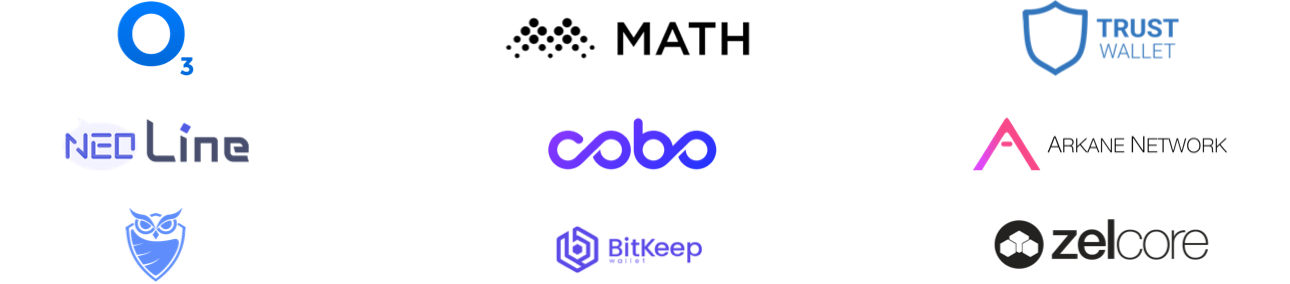
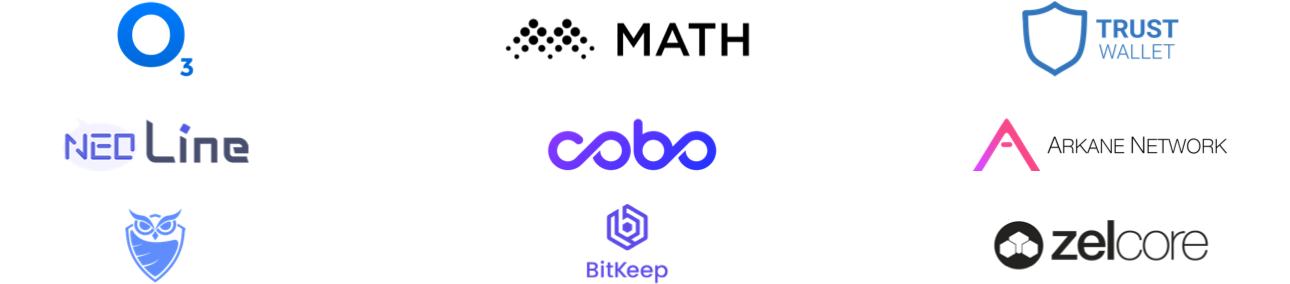
ecoboost修改logo位置

diff --git a/NeoWeb/wwwroot/css/eco.min.css b/NeoWeb/wwwroot/css/eco.min.css
@@ -1,1 +1,1 @@
-body{padding-top:0;line-height:1.7;font-weight:300;background:#f0f0f0;letter-spacing:1px;text-align:center;color:#4f4f4f}.layout-container{max-width:none;padding:0;margin:0}.layout-container .container{padding:100px 0}h2,.h2{font-size:48px}.eco-bannner{background:url(https://neo-cdn.azureedge.net/images/eco-banner.jpg) center;background-size:cover;color:#fff;padding-top:40px}.eco-bannner>div.container{padding-top:80px}.eco-title{line-height:1.6;letter-spacing:2px}.eco-t1{font-size:22px;cursor:pointer}.eco-t2{font-size:14px}.eco-btn{display:inline-block;background:#eff1ef;border:1px solid #eff1ef;min-width:130px;color:#4f4f4f !important;padding:5px 30px;vertical-align:middle;cursor:pointer;transition:background .3s,color .3s;margin-bottom:30px}.eco-btn:hover{background:transparent;border:1px solid #fff;color:#fff !important;transition:background .3s,color .3s}.eco-intro{width:100%;padding:0;margin-bottom:0}.eco-intro li{display:inline-block;vertical-align:top;list-style:none;width:32%;margin-top:20px}.eco-intro .t1{font-size:28px}.eco-detail{max-width:310px;margin:auto}.eco-intro li .iconfont{display:inline-block;background:url(https://neo-cdn.azureedge.net/images/icon-bg.svg) center;background-size:contain;width:108px;height:128px;line-height:128px;vertical-align:middle;font-size:45px;color:#478e0a}.eco-link{color:#478e0a!important;font-size:20px;font-weight:600;cursor:pointer}.eco-link:hover{text-decoration:underline!important}.eco-tag{padding:0;margin-bottom:0}.eco-tag li{display:inline-block;padding:5px 30px;cursor:pointer}.eco-tag li.selected{color:#478e0a;border-bottom:2px solid #478e0a}.eco-logo{padding:50px 0}.eco-logo li{display:inline-block;margin:10px 4%;width:30%;max-width:280px;line-height:1;vertical-align:top}.eco-logo li span{display:inline-block;background-size:820px;background-repeat:no-repeat;background-origin:border-box;background-clip:border-box;min-height:60px;width:280px;filter:grayscale(1);opacity:.8;transition:all .2s}.eco-logo li span:hover{opacity:1;filter:grayscale(0);transition:all .3s}.eco-logo .Liquidity span{background-image:url(../images/eco/Liquidity.png)}.eco-logo .Liquidity .bibox{background-position:46px 13px}.eco-logo .Liquidity .kucoin{background-position:-256px 15px}.eco-logo .Liquidity .digi{background-position:-551px 14px}.eco-logo .Liquidity .bitmax{background-position:42px -54px}.eco-logo .Liquidity .bitmart{background-position:-257px -53px}.eco-logo .Liquidity .indo{background-position:-553px -51px}.eco-logo .Liquidity .nash{background-position:40px -118px}.eco-logo .Liquidity .switch{background-position:-254px -120px}.eco-logo .Liquidity .coin{background-position:-555px -114px}.eco-logo .Liquidity .dex{background-position:42px -189px}.eco-logo .Wallets span{background-image:url(../images/eco/Wallets.png)}.eco-logo .Wallets .o3{background-position:44px 8px}.eco-logo .Wallets .math{background-position:-261px 9px}.eco-logo .Wallets .trust{background-position:-561px 7px}.eco-logo .Wallets .line{background-position:40px -60px}.eco-logo .Wallets .cobo{background-position:-260px -62px}.eco-logo .Wallets .arkane{background-position:-561px -59px}.eco-logo .Wallets .teemo{background-position:42px -125px}.eco-logo .Wallets .bitkeep{background-position:-260px -126px}.eco-logo .Wallets .zelcore{background-position:-560px -122px}.eco-logo .Media span{background-image:url(../images/eco/Media.png)}.eco-logo .Media .bcgamer{background-position:19px 7px}.eco-logo .Media .nnt{background-position:-283px 7px}.eco-logo .Media .xingqiu{background-position:-581px 8px}.eco-logo .Media .bi{background-position:17px -62px}.eco-logo .Media .chain{background-position:-271px -61px}.eco-logo .Media .bitkan{background-position:-581px -61px}.eco-logo .Media .ba{background-position:16px -127px}.eco-logo .Media .egamer{background-position:-274px -128px}.eco-logo .Media .lian{background-position:-579px -125px}.eco-logo .Media .panews{background-position:18px -193px}.eco-logo .Media .huo{background-position:-274px -196px}.eco-logo .Media .dgaming{background-position:-582px -196px}.eco-logo .Channels span{background-image:url(../images/eco/Channels.png)}.eco-logo .Channels .review{background-position:33px 13px}.eco-logo .Channels .bee{background-position:-258px 15px}.eco-logo .Channels .state{background-position:-564px 10px}.eco-logo .Channels .dapp{background-position:33px -55px}.eco-logo .Channels .total{background-position:-266px -58px}.eco-logo .Channels .birds{background-position:-567px -59px}.eco-logo .Community span{background-image:url(../images/eco/Community.png)}.eco-logo .Community .nel{background-position:1px 9px}.eco-logo .Community .nex{background-position:-284px 9px}.eco-logo .Community .nspcc{background-position:-590px 6px}.eco-logo .Community .neore{background-position:6px -61px}.eco-logo .Community .neo3j{background-position:-280px -63px}.eco-logo .Community .neone{background-position:-589px -65px}.eco-logo .Community .nns{background-position:14px -126px}.eco-logo .Community .thebl{background-position:-272px -127px}.eco-logo .Community .conte{background-position:-582px -126px}.eco-logo .Community .chang{background-position:11px -195px}.eco-logo .Community .trini{background-position:-277px -197px}.eco-logo .Community .higgs{background-position:-582px -199px}.eco-logo .Community .trava{background-position:19px -267px}.eco-logo .Community .oncha{background-position:-275px -262px}.eco-logo .Community .archo{background-position:-582px -264px}.eco-logo .Community .alche{background-position:17px -331px}.eco-logo .Community .world{background-position:-280px -329px}.eco-logo .Community .lique{background-position:-584px -330px}.eco-logo .Community .coinp{background-position:17px -401px}.eco-logo .Community .bridg{background-position:-279px -400px}.eco-logo .Community .mixma{background-position:-579px -401px}.eco-logo .Community .coz{background-position:21px -461px}.eco-logo .Security span{background-image:url(../images/eco/Security.png)}.eco-logo .Security .red4{background-position:25px 6px}.eco-logo .Security .cert{background-position:-268px 9px}.eco-logo .Security .slow{background-position:-575px 6px}.eco-logo .Security .beosin{background-position:20px -62px}.eco-logo .Security .secbit{background-position:-269px -66px}.eco-modal .modal-title{width:100%;max-width:700px;overflow:hidden;white-space:nowrap;text-overflow:ellipsis;text-align:left}.eco-click{color:#478e0a;padding:0 5px;font-weight:500;border-bottom:2px solid #478e0a}.modal-content{padding:1em 1.5em}.modal-header{padding:1em 0 1.5em 0}.eco-modal .modal-body{padding:1.5em 0 2em 0;line-height:2.1}.eco-modal .modal-body p{margin:5px 0 10px}.eco-modal .modal-body span{font-weight:600}@media only screen and (max-width:1199px){h2,.h2{font-size:40px}.eco-tag li{padding:5px 20px}.eco-logo{padding:30px 0}.eco-logo li{margin:10px 0;width:32%}.eco-logo li span{zoom:.8}}@media only screen and (max-width:768px){h2,.h2{font-size:34px}.layout-container .container{padding:60px 0}.eco-t1{font-size:22px}.eco-t2{font-size:12px}.eco-intro li{width:100%}.eco-link{font-size:16px}.eco-tag li{padding:5px 10px}.eco-logo{padding:15px 0}.eco-logo li{margin:8px 10px;width:40%}}#EcoReg .modal-content,#EcoReg .modal-header,#EcoReg .modal-body{padding:0}#ecoForm{margin-top:-90px !important;margin-bottom:-135px !important}
+body{padding-top:0;line-height:1.7;font-weight:300;background:#f0f0f0;letter-spacing:1px;text-align:center;color:#4f4f4f}.layout-container{max-width:none;padding:0;margin:0}.layout-container .container{padding:100px 0}h2,.h2{font-size:48px}.eco-bannner{background:url(https://neo-cdn.azureedge.net/images/eco-banner.jpg) center;background-size:cover;color:#fff;padding-top:40px}.eco-bannner>div.container{padding-top:80px}.eco-title{line-height:1.6;letter-spacing:2px}.eco-t1{font-size:22px;cursor:pointer}.eco-t2{font-size:14px}.eco-btn{display:inline-block;background:#eff1ef;border:1px solid #eff1ef;min-width:130px;color:#4f4f4f !important;padding:5px 30px;vertical-align:middle;cursor:pointer;transition:background .3s,color .3s;margin-bottom:30px}.eco-btn:hover{background:transparent;border:1px solid #fff;color:#fff !important;transition:background .3s,color .3s}.eco-intro{width:100%;padding:0;margin-bottom:0}.eco-intro li{display:inline-block;vertical-align:top;list-style:none;width:32%;margin-top:20px}.eco-intro .t1{font-size:28px}.eco-detail{max-width:310px;margin:auto}.eco-intro li .iconfont{display:inline-block;background:url(https://neo-cdn.azureedge.net/images/icon-bg.svg) center;background-size:contain;width:108px;height:128px;line-height:128px;vertical-align:middle;font-size:45px;color:#478e0a}.eco-link{color:#478e0a!important;font-size:20px;font-weight:600;cursor:pointer}.eco-link:hover{text-decoration:underline!important}.eco-tag{padding:0;margin-bottom:0}.eco-tag li{display:inline-block;padding:5px 30px;cursor:pointer}.eco-tag li.selected{color:#478e0a;border-bottom:2px solid #478e0a}.eco-logo{padding:50px 0}.eco-logo li{display:inline-block;margin:10px 4%;width:30%;max-width:280px;line-height:1;vertical-align:top}.eco-logo li span{display:inline-block;background-size:820px;background-repeat:no-repeat;background-origin:border-box;background-clip:border-box;min-height:60px;width:280px;filter:grayscale(1);opacity:.8;transition:all .2s}.eco-logo li span:hover{opacity:1;filter:grayscale(0);transition:all .3s}.eco-logo .Liquidity span{background-image:url(https://neo-cdn.azureedge.net/images/eco/Liquidity.png)}.eco-logo .Wallets span{background-image:url(https://neo-cdn.azureedge.net/images/eco/Wallets.png)}.eco-logo .Media span{background-image:url(https://neo-cdn.azureedge.net/images/eco/Media.png)}.eco-logo .Channels span{background-image:url(https://neo-cdn.azureedge.net/images/eco/Channels.png)}.eco-logo .Community span{background-image:url(https://neo-cdn.azureedge.net/images/eco/Community.png)}.eco-logo .Security span{background-image:url(https://neo-cdn.azureedge.net/images/eco/Security.png)}.eco-logo .Liquidity .bibox{background-position:42px 11px}.eco-logo .Liquidity .kucoin{background-position:-256px 15px}.eco-logo .Liquidity .digi{background-position:-551px 14px}.eco-logo .Liquidity .bitmax{background-position:42px -54px}.eco-logo .Liquidity .bitmart{background-position:-257px -53px}.eco-logo .Liquidity .indo{background-position:-553px -51px}.eco-logo .Liquidity .nash{background-position:40px -118px}.eco-logo .Liquidity .switch{background-position:-254px -120px}.eco-logo .Liquidity .coin{background-position:-555px -114px}.eco-logo .Liquidity .dex{background-position:44px -189px}.eco-logo .Wallets .o3{background-position:44px 8px}.eco-logo .Wallets .math{background-position:-261px 9px}.eco-logo .Wallets .trust{background-position:-561px 7px}.eco-logo .Wallets .line{background-position:40px -60px}.eco-logo .Wallets .cobo{background-position:-260px -62px}.eco-logo .Wallets .arkane{background-position:-561px -59px}.eco-logo .Wallets .teemo{background-position:42px -125px}.eco-logo .Wallets .bitkeep{background-position:-260px -125px}.eco-logo .Wallets .zelcore{background-position:-560px -122px}.eco-logo .Media .bcgamer{background-position:19px 7px}.eco-logo .Media .nnt{background-position:-283px 7px}.eco-logo .Media .xingqiu{background-position:-581px 8px}.eco-logo .Media .bi{background-position:17px -62px}.eco-logo .Media .chain{background-position:-271px -61px}.eco-logo .Media .bitkan{background-position:-581px -61px}.eco-logo .Media .ba{background-position:16px -127px}.eco-logo .Media .egamer{background-position:-274px -128px}.eco-logo .Media .lian{background-position:-579px -125px}.eco-logo .Media .panews{background-position:18px -193px}.eco-logo .Media .huo{background-position:-274px -196px}.eco-logo .Media .dgaming{background-position:-582px -196px}.eco-logo .Media .tuoluo{background-position:13px -255px}.eco-logo .Channels .review{background-position:33px 13px}.eco-logo .Channels .bee{background-position:-258px 15px}.eco-logo .Channels .state{background-position:-564px 10px}.eco-logo .Channels .dapp{background-position:33px -55px}.eco-logo .Channels .total{background-position:-266px -58px}.eco-logo .Channels .birds{background-position:-567px -59px}.eco-logo .Community .nel{background-position:1px 9px}.eco-logo .Community .nex{background-position:-284px 9px}.eco-logo .Community .nspcc{background-position:-590px 6px}.eco-logo .Community .neore{background-position:6px -61px}.eco-logo .Community .neo3j{background-position:-280px -63px}.eco-logo .Community .neone{background-position:-589px -65px}.eco-logo .Community .nns{background-position:14px -126px}.eco-logo .Community .thebl{background-position:-272px -127px}.eco-logo .Community .conte{background-position:-582px -126px}.eco-logo .Community .chang{background-position:11px -195px}.eco-logo .Community .trini{background-position:-277px -197px}.eco-logo .Community .higgs{background-position:-582px -199px}.eco-logo .Community .trava{background-position:19px -267px}.eco-logo .Community .oncha{background-position:-275px -262px}.eco-logo .Community .archo{background-position:-582px -264px}.eco-logo .Community .alche{background-position:17px -331px}.eco-logo .Community .world{background-position:-280px -329px}.eco-logo .Community .lique{background-position:-584px -330px}.eco-logo .Community .coinp{background-position:17px -401px}.eco-logo .Community .bridg{background-position:-279px -400px}.eco-logo .Community .mixma{background-position:-579px -401px}.eco-logo .Community .coz{background-position:21px -461px}.eco-logo .Security .red4{background-position:25px 6px}.eco-logo .Security .cert{background-position:-268px 9px}.eco-logo .Security .slow{background-position:-575px 6px}.eco-logo .Security .beosin{background-position:20px -62px}.eco-logo .Security .secbit{background-position:-269px -66px}.eco-modal .modal-title{width:100%;max-width:700px;overflow:hidden;white-space:nowrap;text-overflow:ellipsis;text-align:left}.eco-click{color:#478e0a;padding:0 5px;font-weight:500;border-bottom:2px solid #478e0a}.modal-content{padding:1em 1.5em}.modal-header{padding:1em 0 1.5em 0}.eco-modal .modal-body{padding:1.5em 0 2em 0;line-height:2.1}.eco-modal .modal-body p{margin:5px 0 10px}.eco-modal .modal-body span{font-weight:600}@media only screen and (max-width:1199px){h2,.h2{font-size:40px}.eco-tag li{padding:5px 20px}.eco-logo{padding:30px 0}.eco-logo li{margin:10px 0;width:32%}.eco-logo li span{zoom:.8}}@media only screen and (max-width:768px){h2,.h2{font-size:34px}.layout-container .container{padding:60px 0}.eco-t1{font-size:22px}.eco-t2{font-size:12px}.eco-intro li{width:100%}.eco-link{font-size:16px}.eco-tag li{padding:5px 10px}.eco-logo{padding:15px 0}.eco-logo li{margin:8px 10px;width:40%}.eco-logo li span{zoom:.6}}@media only screen and (max-width:378px){.eco-logo li{margin:5px 10px;width:40%}.eco-logo li span{zoom:.5}}#EcoReg .modal-content,#EcoReg .modal-header,#EcoReg .modal-body{padding:0}#ecoForm{margin-top:-90px !important;margin-bottom:-135px !important}

diff --git a/NeoWeb/wwwroot/css/eco.css b/NeoWeb/wwwroot/css/eco.css
@@ -160,9 +160,44 @@ h2,.h2 {font-size:48px;}
 }
 
 .eco-logo .Liquidity span {
+    background-image: url(https://neo-cdn.azureedge.net/images/eco/Liquidity.png);
+}
+.eco-logo .Wallets span {
+    background-image: url(https://neo-cdn.azureedge.net/images/eco/Wallets.png);
+}
+.eco-logo .Media span {
+    background-image: url(https://neo-cdn.azureedge.net/images/eco/Media.png);
+}
+.eco-logo .Channels span {
+    background-image: url(https://neo-cdn.azureedge.net/images/eco/Channels.png);
+}
+.eco-logo .Community span {
+    background-image: url(https://neo-cdn.azureedge.net/images/eco/Community.png);
+}
+.eco-logo .Security span {
+    background-image: url(https://neo-cdn.azureedge.net/images/eco/Security.png);
+}
+
+/*.eco-logo .Liquidity span {
     background-image: url(../images/eco/Liquidity.png);
 }
-.eco-logo .Liquidity .bibox {background-position: 46px 13px;}
+.eco-logo .Wallets span {
+    background-image: url(../images/eco/Wallets.png);
+}
+.eco-logo .Media span {
+    background-image: url(../images/eco/Media.png);
+}
+.eco-logo .Channels span {
+    background-image: url(../images/eco/Channels.png);
+}
+.eco-logo .Community span {
+    background-image: url(../images/eco/Community.png);
+}
+.eco-logo .Security span {
+    background-image: url(../images/eco/Security.png);
+}*/
+
+.eco-logo .Liquidity .bibox {background-position: 42px 11px;}
 .eco-logo .Liquidity .kucoin {background-position: -256px 15px;}
 .eco-logo .Liquidity .digi {background-position: -551px 14px;}
 .eco-logo .Liquidity .bitmax {background-position: 42px -54px;}
@@ -171,11 +206,9 @@ h2,.h2 {font-size:48px;}
 .eco-logo .Liquidity .nash {background-position: 40px -118px;}
 .eco-logo .Liquidity .switch {background-position: -254px -120px;}
 .eco-logo .Liquidity .coin {background-position: -555px -114px;}
-.eco-logo .Liquidity .dex {background-position: 42px -189px;}
+.eco-logo .Liquidity .dex {background-position: 44px -189px;}
 
-.eco-logo .Wallets span {
-    background-image: url(../images/eco/Wallets.png);
-}
+
 .eco-logo .Wallets .o3 {background-position: 44px 8px;}
 .eco-logo .Wallets .math {background-position: -261px 9px;}
 .eco-logo .Wallets .trust {background-position: -561px 7px;}
@@ -183,12 +216,8 @@ h2,.h2 {font-size:48px;}
 .eco-logo .Wallets .cobo {background-position: -260px -62px;}
 .eco-logo .Wallets .arkane {background-position: -561px -59px;}
 .eco-logo .Wallets .teemo {background-position: 42px -125px;}
-.eco-logo .Wallets .bitkeep {background-position: -260px -126px;}
+.eco-logo .Wallets .bitkeep {background-position: -260px -125px;}
 .eco-logo .Wallets .zelcore {background-position: -560px -122px;}
-
-.eco-logo .Media span {
-    background-image: url(../images/eco/Media.png);
-}
 
 .eco-logo .Media .bcgamer {background-position: 19px 7px;}
 .eco-logo .Media .nnt {background-position: -283px 7px;}
@@ -202,10 +231,8 @@ h2,.h2 {font-size:48px;}
 .eco-logo .Media .panews {background-position: 18px -193px;}
 .eco-logo .Media .huo {background-position: -274px -196px;}
 .eco-logo .Media .dgaming {background-position: -582px -196px;}
+.eco-logo .Media .tuoluo {background-position: 13px -255px;}
 
-.eco-logo .Channels span {
-    background-image: url(../images/eco/Channels.png);
-}
 
 .eco-logo .Channels .review {background-position: 33px 13px;}
 .eco-logo .Channels .bee {background-position: -258px 15px;}
@@ -214,9 +241,6 @@ h2,.h2 {font-size:48px;}
 .eco-logo .Channels .total {background-position: -266px -58px;}
 .eco-logo .Channels .birds {background-position: -567px -59px;}
 
-.eco-logo .Community span {
-    background-image: url(../images/eco/Community.png);
-}
 
 .eco-logo .Community .nel   {background-position: 1px 9px;}
 .eco-logo .Community .nex   {background-position: -284px 9px;}
@@ -241,9 +265,6 @@ h2,.h2 {font-size:48px;}
 .eco-logo .Community .mixma {background-position: -579px -401px;}
 .eco-logo .Community .coz {background-position: 21px -461px;}
 
-.eco-logo .Security span {
-    background-image: url(../images/eco/Security.png);
-}
 
 .eco-logo .Security .red4   {background-position: 25px 6px;}
 .eco-logo .Security .cert   {background-position: -268px 9px;}
@@ -330,6 +351,18 @@ h2,.h2 {font-size:48px;}
     .eco-logo li {
         margin: 8px 10px;
         width: 40%;
+    }
+    .eco-logo li span {
+        zoom: 0.6;
+    }
+}
+@media only screen and (max-width :378px) {
+    .eco-logo li {
+        margin: 5px 10px;
+        width: 40%;
+    }
+    .eco-logo li span {
+        zoom: 0.5;
     }
 }
 
